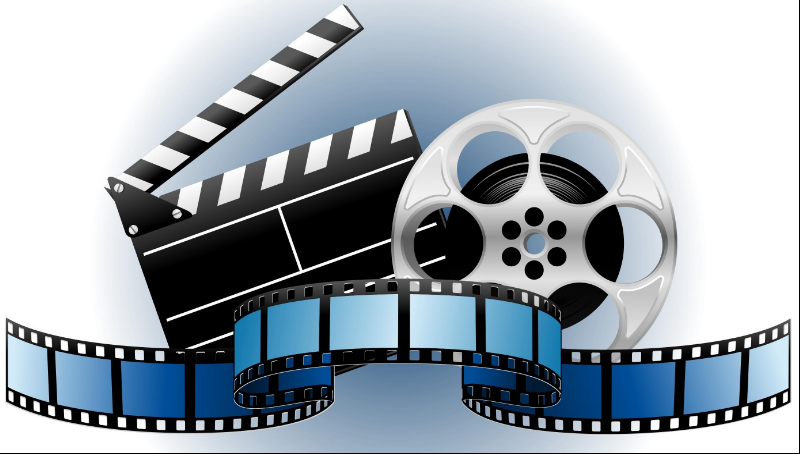
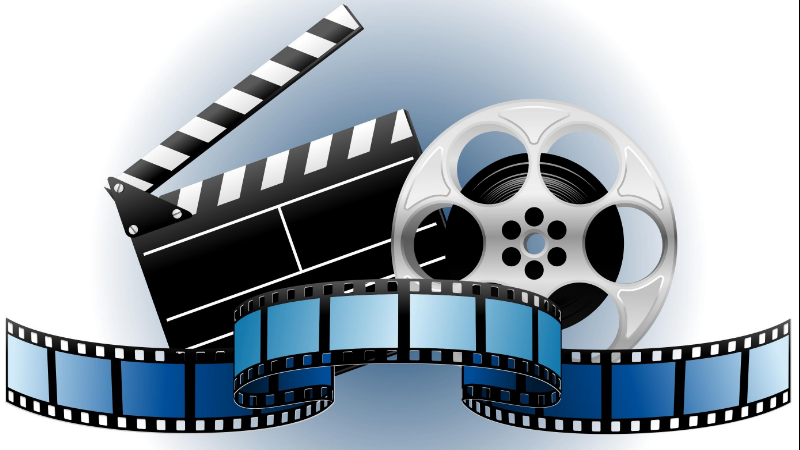
video frame default ss changed to 16:9

diff --git a/app/models/post.rb b/app/models/post.rb
@@ -134,7 +134,7 @@ class Post < ActiveRecord::Base
 		rescue Exception => e
 			attempts += 1
 			retry if attempts <= 3
-			raise e
+			#raise e
 		end
 	end
 
